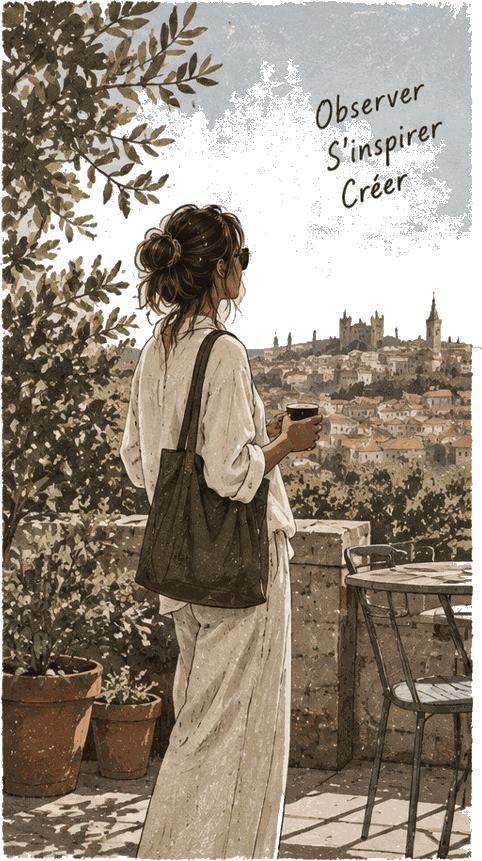
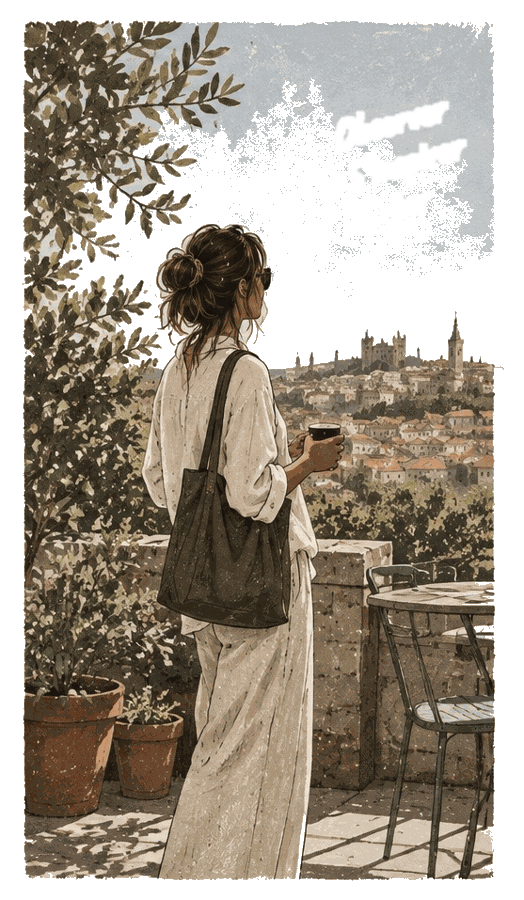
Hero: texto de la primera viñeta quitado y puesto como epígrafe de las tres

diff --git a/index.html b/index.html
@@ -60,7 +60,7 @@
   </script>
   <link rel="preconnect" href="https://fonts.googleapis.com">
   <link href="https://fonts.googleapis.com/css2?family=Shadows+Into+Light&family=Fira+Code:wght@300;400;500;600&display=swap" rel="stylesheet">
-  <link rel="stylesheet" href="css/style.css?v=28">
+  <link rel="stylesheet" href="css/style.css?v=29">
 </head>
 <body>
 
@@ -81,10 +81,11 @@
     <h1 class="hero__title">Studio <em>Créatif</em></h1>
     <p class="hero__sub">Fresques murales, illustrations, design textile, identité visuelle &amp; packaging —<br>de l'idée à la réalisation, pour entreprises et particuliers.</p>
     <div class="hero__timeline" aria-hidden="true">
-      <img src="assets/personajes/observer.png?v=3" alt="">
+      <img src="assets/personajes/observer.png?v=4" alt="">
       <img src="assets/personajes/motifs.png?v=3" alt="">
       <img src="assets/personajes/fresque.png?v=3" alt="">
     </div>
+    <p class="hero__caption">Observer · S'inspirer · Créer</p>
     <div class="hero__scroll" aria-hidden="true">
       <span>Faites défiler</span>
     </div>

diff --git a/css/style.css b/css/style.css
@@ -95,6 +95,11 @@ body {
   opacity: 0; animation: charIn 1s both cubic-bezier(.2,.7,.2,1);
 }
 .hero__timeline img:nth-child(2) { height: clamp(130px, 22vw, 290px); }
+.hero__caption {
+  margin-top: 1.1rem; font-family: var(--hand); font-size: clamp(1.3rem, 2.4vw, 1.9rem);
+  color: var(--mut); letter-spacing: .04em;
+  animation: rise .9s 1.5s both cubic-bezier(.2,.7,.2,1);
+}
 .hero__timeline img:nth-child(1) { animation-delay: .55s; }
 .hero__timeline img:nth-child(2) { animation-delay: .75s; }
 .hero__timeline img:nth-child(3) { animation-delay: .95s; }

diff --git a/devis.html b/devis.html
@@ -15,7 +15,7 @@
   <meta property="og:locale" content="fr_FR">
   <link rel="preconnect" href="https://fonts.googleapis.com">
   <link href="https://fonts.googleapis.com/css2?family=Shadows+Into+Light&family=Fira+Code:wght@300;400;500;600&display=swap" rel="stylesheet">
-  <link rel="stylesheet" href="css/style.css?v=28">
+  <link rel="stylesheet" href="css/style.css?v=29">
 </head>
 <body>
 
